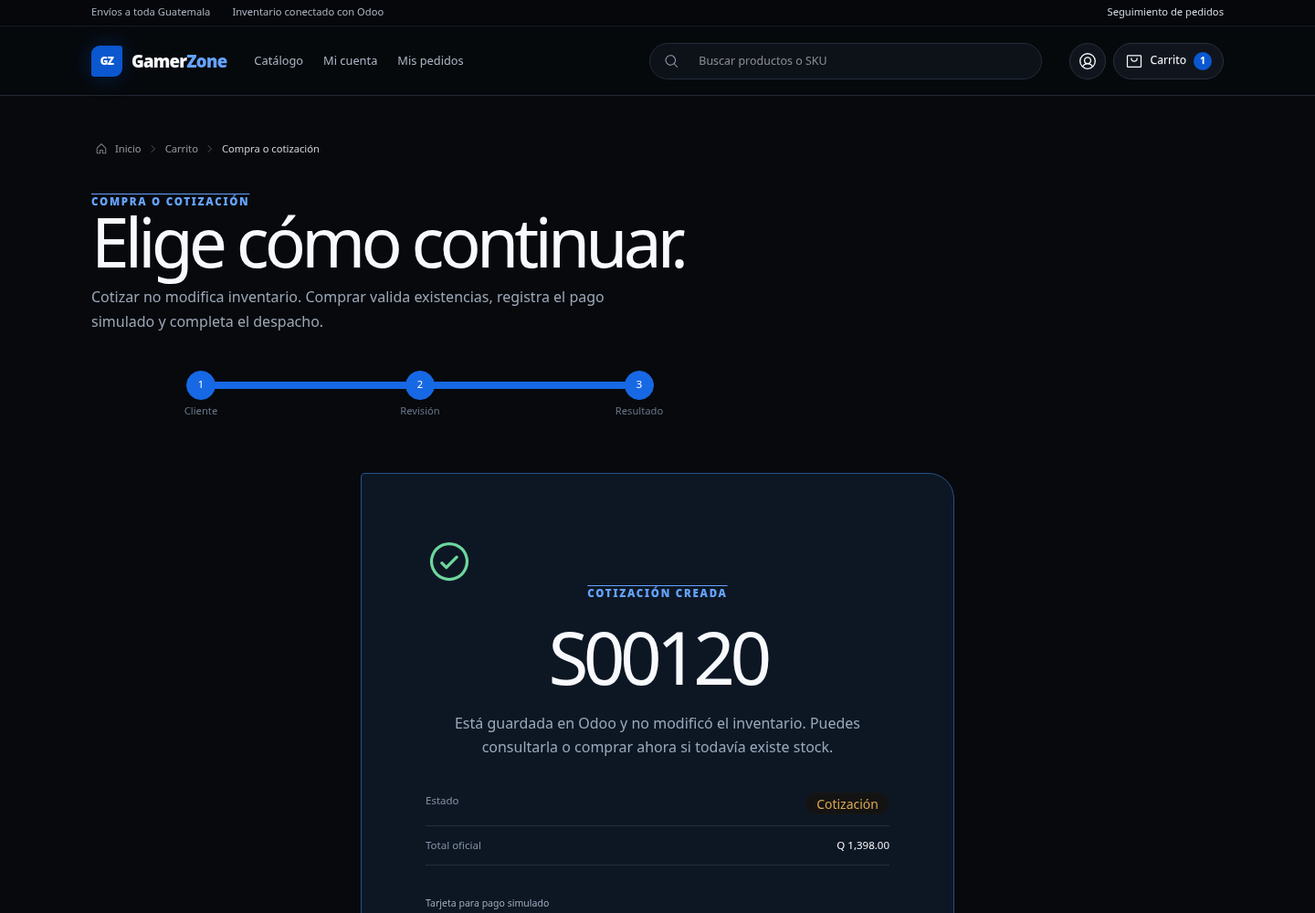
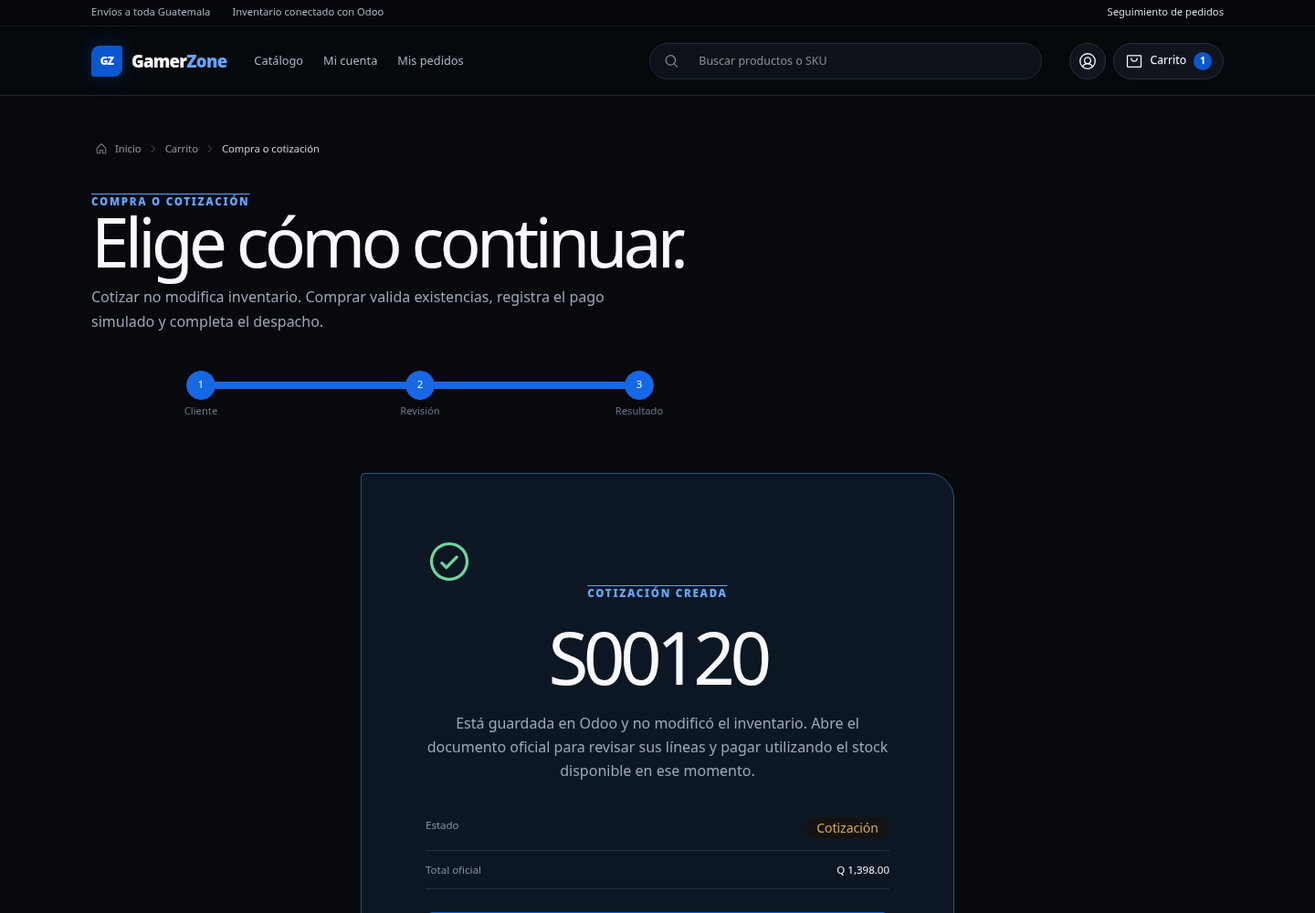
fix(backend): mejora del carrito compras

diff --git a/frontend/src/pages/PortalPage.tsx b/frontend/src/pages/PortalPage.tsx
@@ -1,6 +1,6 @@
 import { CreditCard, FileText, MagnifyingGlass, Package, Receipt } from "@phosphor-icons/react";
 import { useQuery, type UseQueryResult } from "@tanstack/react-query";
-import { FormEvent, useMemo, useState } from "react";
+import { FormEvent, useEffect, useMemo, useState } from "react";
 import { Link, useSearchParams } from "react-router-dom";
 import { EmptyState, ErrorState } from "../components/AsyncState";
 import { Breadcrumbs } from "../components/Breadcrumbs";
@@ -12,17 +12,25 @@ export function PortalPage() {
   const customer = useStore((state) => state.customer);
   const [params, setParams] = useSearchParams();
   const [draftEmail, setDraftEmail] = useState(params.get("email") || customer?.email || "");
+  const [draftCode, setDraftCode] = useState(params.get("codigo") || "");
   const email = params.get("email") || "";
+  const code = params.get("codigo") || "";
   const [tab, setTab] = useState<"orders" | "invoices" | "payments">("orders");
   const orders = useQuery({ queryKey: ["orders", email], queryFn: () => api.orders(email), enabled: Boolean(email) });
   const invoices = useQuery({ queryKey: ["invoices", email], queryFn: () => api.invoices(email), enabled: Boolean(email) });
   const payments = useQuery({ queryKey: ["payments", email], queryFn: () => api.payments(email), enabled: Boolean(email) });
-  const submit = (event: FormEvent) => { event.preventDefault(); if (draftEmail.trim()) setParams({ email: draftEmail.trim() }); };
+  const submit = (event: FormEvent) => {
+    event.preventDefault();
+    if (!draftEmail.trim()) return;
+    const next = new URLSearchParams({ email: draftEmail.trim() });
+    if (draftCode.trim()) next.set("codigo", draftCode.trim().toUpperCase());
+    setParams(next);
+  };
   return <section className="portal-page page-shell page-top">
     <Breadcrumbs items={[{ label: "Portal de cliente" }]} />
-    <header className="page-title"><p className="overline">Portal conectado con Odoo</p><h1>Tus compras, en un solo lugar.</h1><p>Consulta cotizaciones, órdenes y facturas utilizando el correo registrado.</p></header>
-    <form className="input portal-search" onSubmit={submit}><MagnifyingGlass size={20} /><input type="email" required value={draftEmail} onChange={(event) => setDraftEmail(event.target.value)} placeholder="correo@ejemplo.com" aria-label="Correo del cliente" /><button className="btn btn-primary button-primary">Consultar</button></form>
-    {!email ? <div className="state-panel portal-welcome"><Package size={36} /><h2>Ingresa tu correo para comenzar</h2><p>Mostraremos únicamente los documentos relacionados con ese cliente.</p></div> : <><div className="stats portal-stats" aria-label="Resumen de actividad"><div className="stat"><div className="stat-figure"><Package size={22} /></div><div className="stat-title">Documentos</div><div className="stat-value">{orders.isLoading ? "—" : orders.data?.length ?? 0}</div><div className="stat-desc">Cotizaciones y pedidos</div></div><div className="stat"><div className="stat-figure"><Receipt size={22} /></div><div className="stat-title">Facturas</div><div className="stat-value">{invoices.isLoading ? "—" : invoices.data?.length ?? 0}</div><div className="stat-desc">Emitidas en Odoo</div></div><div className="stat"><div className="stat-figure"><CreditCard size={22} /></div><div className="stat-title">Pagos</div><div className="stat-value">{payments.isLoading ? "—" : payments.data?.length ?? 0}</div><div className="stat-desc">Simulaciones aprobadas</div></div></div><div className="tabs tabs-box portal-tabs" role="tablist"><button role="tab" aria-selected={tab === "orders"} className={`tab ${tab === "orders" ? "tab-active active" : ""}`} onClick={() => setTab("orders")}><Package size={18} />Pedidos <span className="badge badge-sm">{orders.data?.length ?? 0}</span></button><button role="tab" aria-selected={tab === "invoices"} className={`tab ${tab === "invoices" ? "tab-active active" : ""}`} onClick={() => setTab("invoices")}><Receipt size={18} />Facturas <span className="badge badge-sm">{invoices.data?.length ?? 0}</span></button><button role="tab" aria-selected={tab === "payments"} className={`tab ${tab === "payments" ? "tab-active active" : ""}`} onClick={() => setTab("payments")}><CreditCard size={18} />Pagos <span className="badge badge-sm">{payments.data?.length ?? 0}</span></button></div>{tab === "orders" ? <PortalOrders query={orders} email={email} /> : tab === "invoices" ? <PortalInvoices query={invoices} /> : <PortalPayments query={payments} />}</>}
+    <header className="page-title"><p className="overline">Portal conectado con Odoo</p><h1>Tus compras, en un solo lugar.</h1><p>Consulta tus documentos con el correo registrado. Si tienes el código de una cotización, puedes ingresarlo para encontrarla directamente.</p></header>
+    <form className="portal-lookup" onSubmit={submit}><label className="input"><MagnifyingGlass size={19} /><input type="email" required value={draftEmail} onChange={(event) => setDraftEmail(event.target.value)} placeholder="correo@ejemplo.com" aria-label="Correo del cliente" /></label><label className="input"><FileText size={19} /><input value={draftCode} onChange={(event) => setDraftCode(event.target.value)} placeholder="Código, ej. S00017" aria-label="Código de cotización opcional" /></label><button className="btn btn-primary">Consultar</button></form>
+    {!email ? <div className="state-panel portal-welcome"><Package size={36} /><h2>Ingresa tu correo para comenzar</h2><p>También puedes agregar el código para recuperar una cotización específica.</p></div> : <><div className="stats portal-stats" aria-label="Resumen de actividad"><div className="stat"><div className="stat-figure"><Package size={22} /></div><div className="stat-title">Documentos</div><div className="stat-value">{orders.isLoading ? "—" : orders.data?.length ?? 0}</div><div className="stat-desc">Cotizaciones y pedidos</div></div><div className="stat"><div className="stat-figure"><Receipt size={22} /></div><div className="stat-title">Facturas</div><div className="stat-value">{invoices.isLoading ? "—" : invoices.data?.length ?? 0}</div><div className="stat-desc">Emitidas en Odoo</div></div><div className="stat"><div className="stat-figure"><CreditCard size={22} /></div><div className="stat-title">Pagos</div><div className="stat-value">{payments.isLoading ? "—" : payments.data?.length ?? 0}</div><div className="stat-desc">Simulaciones aprobadas</div></div></div><div className="tabs tabs-box portal-tabs" role="tablist"><button role="tab" aria-selected={tab === "orders"} className={`tab ${tab === "orders" ? "tab-active active" : ""}`} onClick={() => setTab("orders")}><Package size={18} />Pedidos <span className="badge badge-sm">{orders.data?.length ?? 0}</span></button><button role="tab" aria-selected={tab === "invoices"} className={`tab ${tab === "invoices" ? "tab-active active" : ""}`} onClick={() => setTab("invoices")}><Receipt size={18} />Facturas <span className="badge badge-sm">{invoices.data?.length ?? 0}</span></button><button role="tab" aria-selected={tab === "payments"} className={`tab ${tab === "payments" ? "tab-active active" : ""}`} onClick={() => setTab("payments")}><CreditCard size={18} />Pagos <span className="badge badge-sm">{payments.data?.length ?? 0}</span></button></div>{tab === "orders" ? <PortalOrders query={orders} email={email} initialTerm={code} /> : tab === "invoices" ? <PortalInvoices query={invoices} /> : <PortalPayments query={payments} />}</>}
   </section>;
 }
 
@@ -33,9 +41,10 @@ function PortalPayments({ query }: { query: UseQueryResult<SimulatedPayment[], E
   return <div className="document-list">{query.data.map((payment) => <article className="card card-border document-row" key={payment.id}><CreditCard size={22} /><div><strong>{payment.receipt}</strong><span>{payment.order_number} · {payment.card.brand} •••• {payment.card.last4}</span></div><span className="badge badge-success badge-soft document-status paid">Aprobado</span><strong>{money(payment.amount)}</strong></article>)}</div>;
 }
 
-function PortalOrders({ query, email }: { query: UseQueryResult<OrderSummary[], Error>; email: string }) {
+function PortalOrders({ query, email, initialTerm }: { query: UseQueryResult<OrderSummary[], Error>; email: string; initialTerm?: string }) {
   const [filter, setFilter] = useState<"all" | "quotes" | "orders">("all");
-  const [term, setTerm] = useState("");
+  const [term, setTerm] = useState(initialTerm ?? "");
+  useEffect(() => { setTerm(initialTerm ?? ""); }, [initialTerm]);
   const filtered = useMemo(() => (query.data ?? []).filter((order) => {
     const isQuote = order.state === "draft" || order.state === "sent";
     const matchesType = filter === "all" || (filter === "quotes" ? isQuote : !isQuote);
@@ -44,7 +53,7 @@ function PortalOrders({ query, email }: { query: UseQueryResult<OrderSummary[], 
   if (query.isLoading) return <div className="document-list"><div className="skeleton document-skeleton" /><div className="skeleton document-skeleton" /></div>;
   if (query.isError) return <ErrorState message={query.error.message} retry={() => query.refetch()} />;
   if (!query.data?.length) return <EmptyState title="No hay pedidos registrados" detail="Todavía no existen cotizaciones u órdenes asociadas a este correo." />;
-  return <><div className="portal-controls"><label className="input input-sm"><MagnifyingGlass size={17} /><input value={term} onChange={(event) => setTerm(event.target.value)} placeholder="Buscar documento" aria-label="Buscar documento" /></label><div className="join" aria-label="Filtrar pedidos"><button className={`btn btn-sm join-item ${filter === "all" ? "btn-active" : ""}`} onClick={() => setFilter("all")}>Todos</button><button className={`btn btn-sm join-item ${filter === "quotes" ? "btn-active" : ""}`} onClick={() => setFilter("quotes")}>Cotizaciones</button><button className={`btn btn-sm join-item ${filter === "orders" ? "btn-active" : ""}`} onClick={() => setFilter("orders")}>Confirmados</button></div></div>{filtered.length ? <div className="document-list">{filtered.map((order) => <Link className="card card-border document-row" to={`/${order.state === "draft" || order.state === "sent" ? "cotizaciones" : "pedidos"}/${order.id}?email=${encodeURIComponent(email)}`} key={order.id}><FileText size={22} /><div><strong>{order.order_number}</strong><span>{order.date}</span></div><span className={`badge badge-soft document-status ${order.state === "sale" || order.state === "done" ? "badge-success" : order.state === "cancel" ? "badge-error" : "badge-warning"} ${order.state}`}>{order.state_display}</span><strong>{money(order.total)}</strong></Link>)}</div> : <EmptyState title="No hay coincidencias" detail="Cambia el texto o el tipo de documento seleccionado." />}</>;
+  return <><div className="portal-controls"><label className="input input-sm"><MagnifyingGlass size={17} /><input value={term} onChange={(event) => setTerm(event.target.value)} placeholder="Buscar por código o estado" aria-label="Buscar documento" /></label><div className="join" aria-label="Filtrar pedidos"><button className={`btn btn-sm join-item ${filter === "all" ? "btn-active" : ""}`} onClick={() => setFilter("all")}>Todos</button><button className={`btn btn-sm join-item ${filter === "quotes" ? "btn-active" : ""}`} onClick={() => setFilter("quotes")}>Cotizaciones</button><button className={`btn btn-sm join-item ${filter === "orders" ? "btn-active" : ""}`} onClick={() => setFilter("orders")}>Confirmados</button></div></div>{filtered.length ? <div className="document-list">{filtered.map((order) => <Link className="card card-border document-row" to={`/${order.state === "draft" || order.state === "sent" ? "cotizaciones" : "pedidos"}/${order.id}?email=${encodeURIComponent(email)}`} key={order.id}><FileText size={22} /><div><strong>{order.order_number}</strong><span>{order.date}</span></div><span className={`badge badge-soft document-status ${order.state === "sale" || order.state === "done" ? "badge-success" : order.state === "cancel" ? "badge-error" : "badge-warning"} ${order.state}`}>{order.state_display}</span><strong>{money(order.total)}</strong></Link>)}</div> : <EmptyState title="No encontramos ese código" detail="Comprueba que el código y el correo correspondan a la misma cotización." />}</>;
 }
 
 function PortalInvoices({ query }: { query: UseQueryResult<InvoiceSummary[], Error> }) {

diff --git a/frontend/src/pages/QuotePage.tsx b/frontend/src/pages/QuotePage.tsx
@@ -4,17 +4,18 @@ import { useState } from "react";
 import { Link, useNavigate } from "react-router-dom";
 import { CustomerForm } from "../components/CustomerForm";
 import { Breadcrumbs } from "../components/Breadcrumbs";
+import { PaymentSelector } from "../components/PaymentSelector";
 import { PurchaseConfirmDialog } from "../components/PurchaseConfirmDialog";
 import { ApiError, api, money } from "../lib/api";
 import { useStore } from "../store/useStore";
-import type { Customer, PaymentMethod } from "../types";
+import type { Customer } from "../types";
 
 export function QuotePage() {
   const navigate = useNavigate();
   const { cart, customer, lastQuote, setCustomer, setLastQuote, clearCart, notify } = useStore();
   const [step, setStep] = useState(lastQuote ? 3 : 1);
   const [selectedCard, setSelectedCard] = useState("");
-  const [purchaseMode, setPurchaseMode] = useState<"checkout" | "convert" | null>(null);
+  const [purchaseOpen, setPurchaseOpen] = useState(false);
   const paymentEmail = customer?.email || lastQuote?.customer_email || "";
   const cards = useQuery({ queryKey: ["payment-methods", paymentEmail], queryFn: () => api.paymentMethods(paymentEmail), enabled: Boolean(paymentEmail) });
   const cardId = selectedCard || cards.data?.[0]?.id || "";
@@ -22,7 +23,6 @@ export function QuotePage() {
   const items = cart.map((line) => ({ product_id: line.product.id, quantity: line.quantity }));
   const quoteMutation = useMutation({ mutationFn: () => api.createQuote(customer!, items) });
   const buyMutation = useMutation({ mutationFn: () => api.checkout(customer!, items, cardId) });
-  const convertMutation = useMutation({ mutationFn: () => api.convertQuote(lastQuote!.quote_id, lastQuote!.customer_email, cardId) });
   const total = cart.reduce((sum, line) => sum + line.product.price * line.quantity, 0);
 
   const saveCustomer = async (values: Customer) => { setCustomer(values); setStep(2); };
@@ -36,17 +36,8 @@ export function QuotePage() {
       const response = await buyMutation.mutateAsync();
       clearCart(); setLastQuote(null);
       notify(response.data.invoice_warning || `Pago ${response.data.payment.receipt} aprobado.`, response.data.invoice_warning ? "error" : "success");
-      setPurchaseMode(null); navigate(`/pedidos/${response.data.sale_order_id}?email=${encodeURIComponent(customer!.email)}`);
+      setPurchaseOpen(false); navigate(`/pedidos/${response.data.sale_order_id}?email=${encodeURIComponent(customer!.email)}`);
     } catch (error) { notify(error instanceof ApiError ? error.message : "No fue posible completar la compra.", "error"); }
-  };
-  const convert = async () => {
-    if (!cardId) return notify("Adjunta una Tarjeta antes de comprar.", "error");
-    try {
-      const response = await convertMutation.mutateAsync();
-      clearCart(); setLastQuote(null);
-      notify(response.data.invoice_warning || `Pago ${response.data.payment.receipt} aprobado.`, response.data.invoice_warning ? "error" : "success");
-      setPurchaseMode(null); navigate(`/pedidos/${response.data.sale_order_id}?email=${encodeURIComponent(response.data.customer_email)}`);
-    } catch (error) { notify(error instanceof ApiError ? error.message : "No fue posible convertir la cotización.", "error"); }
   };
 
   if (!cart.length && !lastQuote) return <section className="page-shell page-top"><div className="state-panel"><Package size={38} /><h1>No hay productos en el carrito</h1><p>Agrega productos antes de cotizar o comprar.</p><Link className="btn btn-primary button-primary" to="/catalogo">Ir al catálogo</Link></div></section>;
@@ -55,17 +46,12 @@ export function QuotePage() {
     <header className="page-title"><p className="overline">Compra o cotización</p><h1>Elige cómo continuar.</h1><p>Cotizar no modifica inventario. Comprar valida existencias, registra el pago simulado y completa el despacho.</p></header>
     <ol className="steps steps-horizontal stepper"><li className={`step ${step >= 1 ? "step-primary" : ""}`}>Cliente</li><li className={`step ${step >= 2 ? "step-primary" : ""}`}>Revisión</li><li className={`step ${step >= 3 ? "step-primary" : ""}`}>Resultado</li></ol>
     {step === 1 && <div className="quote-stage"><div><h2>¿A nombre de quién?</h2><p>Los datos quedarán asociados al contacto en Odoo.</p></div><div className="form-panel"><CustomerForm defaultValues={customer} buttonLabel="Revisar productos" onSubmit={saveCustomer} /></div></div>}
-    {step === 2 && <div className="quote-review"><ProductLines cart={cart} /><aside className="card card-border"><FileText size={28} /><h2>Resumen</h2><dl><div><dt>Cliente</dt><dd>{customer?.name}</dd></div><div><dt>Correo</dt><dd>{customer?.email}</dd></div><div><dt>Total estimado</dt><dd>{money(total)}</dd></div></dl><p>Odoo volverá a verificar precio y stock. La cotización no reserva unidades.</p><button className="btn btn-secondary quote-action" onClick={createQuote} disabled={quoteMutation.isPending || buyMutation.isPending}>{quoteMutation.isPending ? <><span className="loading loading-spinner loading-sm" />Creando cotización</> : <><FileText size={17} />Solo cotizar</>}</button><PaymentSelector cards={cards.data ?? []} value={cardId} onChange={setSelectedCard} /><button className="btn btn-primary" onClick={() => setPurchaseMode("checkout")} disabled={!cardId || buyMutation.isPending || quoteMutation.isPending}><ShoppingBag size={17} />Comprar y pagar</button>{!cards.isLoading && !cards.data?.length && <Link className="btn btn-link card-required" to="/cuenta"><CreditCard size={16} />Adjuntar tarjeta en Mi cuenta</Link>}<button className="btn btn-ghost button-text" onClick={() => setStep(1)}><ArrowLeft size={15} />Editar cliente</button></aside></div>}
-    {step === 3 && lastQuote && <div className="card card-border quote-success"><CheckCircle size={52} /><p className="overline">Cotización creada</p><h2>{lastQuote.quote_number}</h2><p>Está guardada en Odoo y no modificó el inventario. Puedes consultarla o comprar ahora si todavía existe stock.</p><dl><div><dt>Estado</dt><dd><span className="badge badge-warning badge-soft">Cotización</span></dd></div><div><dt>Total oficial</dt><dd>{money(lastQuote.total)}</dd></div></dl><PaymentSelector cards={cards.data ?? []} value={cardId} onChange={setSelectedCard} /><button className="btn btn-primary" onClick={() => setPurchaseMode("convert")} disabled={!cardId || convertMutation.isPending}>Pagar y convertir en orden</button>{!cards.isLoading && !cards.data?.length && <Link className="btn btn-secondary" to="/cuenta">Adjuntar tarjeta</Link>}<Link className="btn btn-secondary" to={`/cotizaciones/${lastQuote.quote_id}?email=${encodeURIComponent(lastQuote.customer_email)}`}>Ver detalle <ArrowRight size={16} /></Link></div>}
-    <PurchaseConfirmDialog open={purchaseMode !== null} items={cart} card={selectedPaymentCard} total={purchaseMode === "convert" && lastQuote ? lastQuote.total : total} busy={buyMutation.isPending || convertMutation.isPending} onClose={() => setPurchaseMode(null)} onConfirm={() => purchaseMode === "convert" ? void convert() : void buy()} />
+    {step === 2 && <div className="quote-review"><ProductLines cart={cart} /><aside className="card card-border"><FileText size={28} /><h2>Resumen</h2><dl><div><dt>Cliente</dt><dd>{customer?.name}</dd></div><div><dt>Correo</dt><dd>{customer?.email}</dd></div><div><dt>Total estimado</dt><dd>{money(total)}</dd></div></dl><p>Odoo volverá a verificar precio y stock. La cotización no reserva unidades.</p><button className="btn btn-secondary quote-action" onClick={createQuote} disabled={quoteMutation.isPending || buyMutation.isPending}>{quoteMutation.isPending ? <><span className="loading loading-spinner loading-sm" />Creando cotización</> : <><FileText size={17} />Solo cotizar</>}</button><PaymentSelector cards={cards.data ?? []} value={cardId} onChange={setSelectedCard} /><button className="btn btn-primary" onClick={() => setPurchaseOpen(true)} disabled={!cardId || buyMutation.isPending || quoteMutation.isPending}><ShoppingBag size={17} />Comprar y pagar</button>{!cards.isLoading && !cards.data?.length && <Link className="btn btn-link card-required" to="/cuenta"><CreditCard size={16} />Adjuntar tarjeta en Mi cuenta</Link>}<button className="btn btn-ghost button-text" onClick={() => setStep(1)}><ArrowLeft size={15} />Editar cliente</button></aside></div>}
+    {step === 3 && lastQuote && <div className="card card-border quote-success"><CheckCircle size={52} /><p className="overline">Cotización creada</p><h2>{lastQuote.quote_number}</h2><p>Está guardada en Odoo y no modificó el inventario. Abre el documento oficial para revisar sus líneas y pagar utilizando el stock disponible en ese momento.</p><dl><div><dt>Estado</dt><dd><span className="badge badge-warning badge-soft">Cotización</span></dd></div><div><dt>Total oficial</dt><dd>{money(lastQuote.total)}</dd></div></dl><Link className="btn btn-primary" to={`/cotizaciones/${lastQuote.quote_id}?email=${encodeURIComponent(lastQuote.customer_email)}`}>Ver y pagar cotización <ArrowRight size={16} /></Link><Link className="btn btn-secondary" to={`/portal?email=${encodeURIComponent(lastQuote.customer_email)}&codigo=${encodeURIComponent(lastQuote.quote_number)}`}>Ver en Mis pedidos</Link></div>}
+    <PurchaseConfirmDialog open={purchaseOpen} items={cart.map((line) => ({ id: line.product.id, name: line.product.name, image_url: line.product.image_url, quantity: line.quantity, price: line.product.price }))} card={selectedPaymentCard} total={total} busy={buyMutation.isPending} onClose={() => setPurchaseOpen(false)} onConfirm={() => void buy()} />
   </section>;
 }
 
 function ProductLines({ cart }: { cart: ReturnType<typeof useStore.getState>["cart"] }) {
   return <div className="review-lines"><h2>Productos seleccionados</h2>{cart.map((line) => <article key={line.product.id}><img src={line.product.image_url} alt={line.product.name} /><div><strong>{line.product.name}</strong><span>{line.quantity} × {money(line.product.price)} · stock disponible: {line.product.stock}</span></div><strong>{money(line.quantity * line.product.price)}</strong></article>)}</div>;
-}
-
-function PaymentSelector({ cards, value, onChange }: { cards: PaymentMethod[]; value: string; onChange: (value: string) => void }) {
-  if (!cards.length) return null;
-  return <label className="payment-selector"><span>Tarjeta para pago simulado</span><select className="select select-sm" value={value} onChange={(event) => onChange(event.target.value)}>{cards.map((card) => <option value={card.id} key={card.id}>{card.brand} •••• {card.last4} — {String(card.expiry_month).padStart(2, "0")}/{card.expiry_year}</option>)}</select></label>;
 }

diff --git a/frontend/src/pages/OrderDetailPage.tsx b/frontend/src/pages/OrderDetailPage.tsx
@@ -1,22 +1,51 @@
-import { CheckCircle, FileText, Package, ShoppingBag, Truck } from "@phosphor-icons/react";
-import { useQuery } from "@tanstack/react-query";
-import { Link, useParams, useSearchParams } from "react-router-dom";
+import { CheckCircle, CreditCard, FileText, Package, ShoppingBag, Truck } from "@phosphor-icons/react";
+import { useMutation, useQuery, useQueryClient } from "@tanstack/react-query";
+import { useState } from "react";
+import { Link, useNavigate, useParams, useSearchParams } from "react-router-dom";
 import { ErrorState } from "../components/AsyncState";
 import { Breadcrumbs } from "../components/Breadcrumbs";
-import { api, money } from "../lib/api";
+import { PaymentSelector } from "../components/PaymentSelector";
+import { PurchaseConfirmDialog } from "../components/PurchaseConfirmDialog";
+import { ApiError, api, money } from "../lib/api";
 import { useStore } from "../store/useStore";
 
 export function OrderDetailPage() {
+  const navigate = useNavigate();
+  const queryClient = useQueryClient();
   const { id } = useParams();
   const [params] = useSearchParams();
-  const savedEmail = useStore((state) => state.customer?.email);
+  const { customer, setLastQuote, notify } = useStore();
+  const savedEmail = customer?.email;
   const email = params.get("email") || savedEmail || "";
   const orderId = Number(id);
+  const [selectedCard, setSelectedCard] = useState("");
+  const [purchaseOpen, setPurchaseOpen] = useState(false);
   const order = useQuery({
     queryKey: ["order", orderId, email],
     queryFn: () => api.orderDetail(orderId, email),
     enabled: Number.isInteger(orderId) && orderId > 0 && Boolean(email)
   });
+  const isQuote = order.data?.state === "draft" || order.data?.state === "sent";
+  const cards = useQuery({ queryKey: ["payment-methods", email], queryFn: () => api.paymentMethods(email), enabled: Boolean(email) && isQuote });
+  const cardId = selectedCard || cards.data?.[0]?.id || "";
+  const selectedPaymentCard = cards.data?.find((card) => card.id === cardId);
+  const conversion = useMutation({ mutationFn: () => api.convertQuote(orderId, email, cardId) });
+  const convert = async () => {
+    if (!cardId) return notify("Adjunta una Tarjeta antes de comprar.", "error");
+    try {
+      const response = await conversion.mutateAsync();
+      setPurchaseOpen(false);
+      setLastQuote(null);
+      await Promise.all([
+        queryClient.invalidateQueries({ queryKey: ["orders", email] }),
+        queryClient.invalidateQueries({ queryKey: ["invoices", email] }),
+        queryClient.invalidateQueries({ queryKey: ["payments", email] }),
+        queryClient.invalidateQueries({ queryKey: ["order", orderId, email] })
+      ]);
+      notify(response.data.invoice_warning || `Pago ${response.data.payment.receipt} aprobado.`, response.data.invoice_warning ? "error" : "success");
+      navigate(`/pedidos/${response.data.sale_order_id}?email=${encodeURIComponent(response.data.customer_email)}`, { replace: true });
+    } catch (error) { notify(error instanceof ApiError ? error.message : "No fue posible convertir la cotización.", "error"); }
+  };
 
   if (!email) return <section className="page-shell page-top"><ErrorState message="Ingresa desde el portal con tu correo para consultar este documento." /><Link className="btn btn-primary button-primary state-link" to="/portal">Ir al portal</Link></section>;
   if (!Number.isInteger(orderId) || orderId < 1) return <section className="page-shell page-top"><ErrorState message="El número de documento no es válido." /></section>;
@@ -37,6 +66,8 @@ export function OrderDetailPage() {
         {document.lines.map((line) => <article key={line.id}><span><Package size={19} /><strong>{line.name}</strong></span><span>{line.quantity}</span><span>{money(line.price_unit)}</span><strong>{money(line.subtotal)}</strong></article>)}
       </div>
       <dl className="document-totals"><div><dt>Subtotal</dt><dd>{money(document.subtotal)}</dd></div><div><dt>Impuestos</dt><dd>{money(document.tax)}</dd></div><div><dt>Total</dt><dd>{money(document.total)}</dd></div></dl>
+      {isQuote && <section className="quote-payment-panel" aria-labelledby="quote-payment-title"><div><p className="overline">Compra desde la cotización</p><h2 id="quote-payment-title">Paga este documento.</h2><p>La confirmación utilizará exactamente las líneas oficiales mostradas arriba. Odoo validará nuevamente las existencias antes de convertirlo en pedido.</p></div><div className="quote-payment-actions">{cards.isLoading ? <div className="skeleton quote-payment-skeleton" /> : <PaymentSelector cards={cards.data ?? []} value={cardId} onChange={setSelectedCard} label="Método para pagar esta cotización" />}{cards.isSuccess && !cards.data.length ? <Link className="btn btn-secondary" to="/cuenta"><CreditCard size={17} />Adjuntar tarjeta en Mi cuenta</Link> : <button className="btn btn-primary" onClick={() => setPurchaseOpen(true)} disabled={!cardId || conversion.isPending}><CreditCard size={17} />Pagar {document.order_number}</button>}<small>El pago es una simulación educativa y no realiza cargos bancarios reales.</small></div></section>}
     </div>
+    <PurchaseConfirmDialog open={purchaseOpen} items={document.lines.map((line) => ({ id: line.id, name: line.name, image_url: line.product_id ? `/api/products/${line.product_id}/image` : undefined, quantity: line.quantity, price: line.price_unit }))} card={selectedPaymentCard} total={document.total} busy={conversion.isPending} onClose={() => setPurchaseOpen(false)} onConfirm={() => void convert()} />
   </section>;
 }

diff --git a/frontend/src/styles.css b/frontend/src/styles.css
@@ -339,6 +339,10 @@ button:focus-visible, a:focus-visible, input:focus-visible, select:focus-visible
 
 .portal-search { width: min(720px,100%); margin-bottom: 32px; padding-right: 5px; }
 .portal-search .button-primary { flex: none; min-height: 38px; }
+.portal-lookup { width: min(920px, 100%); margin-bottom: 32px; display: grid; grid-template-columns: minmax(260px, 1fr) minmax(210px, .65fr) auto; gap: 10px; }
+.portal-lookup .input { width: 100%; height: 48px; background: var(--color-base-200); border-color: var(--color-base-300); }
+.portal-lookup .input:focus-within { border-color: var(--color-primary); box-shadow: 0 0 0 3px color-mix(in srgb, var(--color-primary) 16%, transparent); }
+.portal-lookup .btn { min-height: 48px; padding-inline: 24px; }
 .portal-stats { width: 100%; margin: 4px 0 24px; display: grid; grid-auto-flow: row; grid-template-columns: repeat(3, minmax(0, 1fr)); background: var(--color-base-200); border: 1px solid var(--color-base-300); box-shadow: 0 24px 70px rgba(3, 10, 22, .18); }
 .portal-stats .stat { min-width: 0; padding: 20px 22px; }
 .portal-stats .stat + .stat { border-left: 1px solid var(--color-base-300); }
@@ -384,6 +388,14 @@ a.document-row:hover { border-color: #416896; background: #101925; }
 .document-totals div { padding: 11px 0; display: flex; justify-content: space-between; border-bottom: 1px solid var(--line); color: #a6b0be; font-size: .76rem; }
 .document-totals dd { margin: 0; color: #fff; }
 .document-totals div:last-child { font-size: 1rem; font-weight: 800; }
+.quote-payment-panel { margin-top: 42px; padding: clamp(24px, 4vw, 38px); display: grid; grid-template-columns: minmax(0, 1fr) minmax(280px, .72fr); gap: 42px; align-items: center; background: color-mix(in srgb, var(--color-primary) 8%, var(--color-base-200)); border: 1px solid color-mix(in srgb, var(--color-primary) 34%, var(--color-base-300)); border-radius: 4px 20px 4px 20px; }
+.quote-payment-panel h2 { margin: 7px 0 12px; font-size: clamp(1.6rem, 3vw, 2.5rem); letter-spacing: -.045em; }
+.quote-payment-panel > div:first-child > p:last-child { max-width: 580px; margin: 0; color: color-mix(in srgb, var(--color-base-content) 58%, transparent); font-size: .75rem; line-height: 1.65; }
+.quote-payment-actions { display: grid; gap: 11px; }
+.quote-payment-actions .payment-selector { margin: 0; }
+.quote-payment-actions .btn { width: 100%; }
+.quote-payment-actions small { color: color-mix(in srgb, var(--color-base-content) 44%, transparent); font-size: .62rem; line-height: 1.45; text-align: center; }
+.quote-payment-skeleton { height: 44px; border-radius: var(--radius-field); }
 .order-progress { margin: 34px 0 30px; padding: 26px; display: grid; grid-template-columns: minmax(170px,.45fr) 1fr; gap: 30px; background: color-mix(in srgb, var(--color-base-200) 78%, transparent); border: 1px solid var(--color-base-300); border-radius: var(--radius-box); }
 .order-progress h2 { margin: 6px 0 0; font-size: 1.15rem; }
 .order-progress .timeline { margin: 0; }
@@ -404,6 +416,7 @@ a.document-row:hover { border-color: #416896; background: #101925; }
 .purchase-modal-lines article + article { border-top: 1px solid var(--color-base-300); }
 .purchase-modal-thumb { width: 58px; height: 52px; display: grid; place-items: center; background: #f0f3f7; border-radius: 5px 12px 5px 12px; }
 .purchase-modal-thumb img { max-width: 86%; max-height: 46px; object-fit: contain; }
+.purchase-modal-thumb > svg { color: #526074; }
 .purchase-modal-lines strong { font-size: .75rem; }
 .purchase-modal-lines article > strong { text-align: right; }
 .purchase-modal-lines span { display: block; margin-top: 4px; color: color-mix(in srgb, var(--color-base-content) 48%, transparent); font-size: .63rem; }
@@ -508,6 +521,8 @@ a.document-row:hover { border-color: #416896; background: #101925; }
   .product-action button { width: 100%; justify-content: center; }
   .trust-section { grid-template-columns: 1fr; gap: 40px; }
   .catalog-toolbar { grid-template-columns: 1fr; }
+  .portal-lookup { grid-template-columns: 1fr 1fr; }
+  .portal-lookup .btn { grid-column: 1 / -1; }
   .product-detail { grid-template-columns: 1fr; }
   .detail-media { min-height: 360px; }
   .detail-media img { max-height: 320px; }
@@ -533,6 +548,7 @@ a.document-row:hover { border-color: #416896; background: #101925; }
   .portal-controls > .input { width: 100%; }
   .portal-controls .join { overflow-x: auto; }
   .order-progress { grid-template-columns: 1fr; gap: 18px; padding: 20px; }
+  .quote-payment-panel { grid-template-columns: 1fr; gap: 24px; }
   .footer-main { padding: 45px 0; grid-template-columns: 1fr; gap: 30px; }
   .footer-legal { padding: 20px 0; flex-wrap: wrap; }
   .footer-legal span:first-child { width: 100%; }
@@ -565,6 +581,8 @@ a.document-row:hover { border-color: #416896; background: #101925; }
   .portal-search { height: auto; padding: 10px; flex-wrap: wrap; }
   .portal-search input { min-width: calc(100% - 40px); height: 38px; }
   .portal-search .button-primary { width: 100%; }
+  .portal-lookup { grid-template-columns: 1fr; }
+  .portal-lookup .btn { grid-column: 1; }
   .portal-stats .stat { padding: 14px 12px; }
   .portal-stats .stat-figure, .portal-stats .stat-desc { display: none; }
   .portal-tabs { flex-wrap: nowrap; overflow-x: auto; }

diff --git a/frontend/src/components/PurchaseConfirmDialog.tsx b/frontend/src/components/PurchaseConfirmDialog.tsx
@@ -1,11 +1,11 @@
 import { CreditCard, Package, ShieldCheck, X } from "@phosphor-icons/react";
 import { useEffect, useRef } from "react";
 import { money } from "../lib/api";
-import type { CartLine, PaymentMethod } from "../types";
+import type { PaymentMethod, PurchaseLine } from "../types";
 
 interface Props {
   open: boolean;
-  items: CartLine[];
+  items: PurchaseLine[];
   card?: PaymentMethod;
   total: number;
   busy: boolean;
@@ -25,7 +25,7 @@ export function PurchaseConfirmDialog({ open, items, card, total, busy, onClose,
   return <dialog ref={ref} className="modal purchase-modal" onCancel={(event) => { if (busy) event.preventDefault(); else onClose(); }} onClose={() => { if (open && !busy) onClose(); }}>
     <div className="modal-box">
       <header><div><span className="modal-kicker">Confirmación final</span><h2>Revisa antes de pagar</h2></div><button className="btn btn-ghost btn-circle btn-sm" type="button" onClick={onClose} disabled={busy} aria-label="Cerrar confirmación"><X size={19} /></button></header>
-      <div className="purchase-modal-lines">{items.map(({ product, quantity }) => <article key={product.id}><div className="purchase-modal-thumb"><img src={product.image_url} alt={product.name} /></div><div><strong>{product.name}</strong><span>{quantity} × {money(product.price)}</span></div><strong>{money(product.price * quantity)}</strong></article>)}</div>
+      <div className="purchase-modal-lines">{items.map((item) => <article key={item.id}><div className="purchase-modal-thumb">{item.image_url ? <img src={item.image_url} alt={item.name} /> : <Package size={23} />}</div><div><strong>{item.name}</strong><span>{item.quantity} × {money(item.price)}</span></div><strong>{money(item.price * item.quantity)}</strong></article>)}</div>
       <dl className="purchase-modal-summary"><div><dt><Package size={17} />Unidades</dt><dd>{items.reduce((sum, item) => sum + item.quantity, 0)}</dd></div><div><dt><CreditCard size={17} />Método</dt><dd>{card ? `${card.brand} •••• ${card.last4}` : "No seleccionado"}</dd></div><div className="purchase-modal-total"><dt>Total</dt><dd>{money(total)}</dd></div></dl>
       <div className="alert alert-warning alert-soft purchase-warning"><ShieldCheck size={20} /><span>Al confirmar, Odoo validará nuevamente las existencias y descontará inventario únicamente si la compra se completa.</span></div>
       <div className="modal-action"><button className="btn btn-ghost" type="button" onClick={onClose} disabled={busy}>Volver</button><button className="btn btn-primary" type="button" onClick={onConfirm} disabled={busy || !card}>{busy ? <><span className="loading loading-spinner loading-sm" />Procesando compra</> : "Confirmar y pagar"}</button></div>

diff --git a/frontend/src/store/useStore.ts b/frontend/src/store/useStore.ts
@@ -30,17 +30,17 @@ export const useStore = create<StoreState>()(persist((set) => ({
     const cart = existing
       ? state.cart.map((line) => line.product.id === product.id ? { ...line, product, quantity: Math.min(available, line.quantity + quantity) } : line)
       : [...state.cart, { product, quantity: Math.min(available, quantity) }];
-    return { cart, notice: { message: `${product.name} se agregó al carrito.`, tone: "success" } };
+    return { cart, lastQuote: null, notice: { message: `${product.name} se agregó al carrito.`, tone: "success" } };
   }),
   setQuantity: (productId, quantity) => set((state) => {
     const line = state.cart.find((item) => item.product.id === productId);
     const available = Math.max(0, Math.floor(line?.product.stock ?? 0));
-    return { cart: quantity < 1 || !available
+    return { lastQuote: null, cart: quantity < 1 || !available
       ? state.cart.filter((item) => item.product.id !== productId)
       : state.cart.map((item) => item.product.id === productId ? { ...item, quantity: Math.min(available, quantity) } : item) };
   }),
-  removeProduct: (productId) => set((state) => ({ cart: state.cart.filter((line) => line.product.id !== productId) })),
-  clearCart: () => set({ cart: [] }),
+  removeProduct: (productId) => set((state) => ({ cart: state.cart.filter((line) => line.product.id !== productId), lastQuote: null })),
+  clearCart: () => set({ cart: [], lastQuote: null }),
   setCustomer: (customer) => set({ customer }),
   setLastQuote: (lastQuote) => set({ lastQuote }),
   setCartOpen: (cartOpen) => set({ cartOpen }),

diff --git a/frontend/src/components/PaymentSelector.tsx b/frontend/src/components/PaymentSelector.tsx
@@ -1,0 +1,13 @@
+import type { PaymentMethod } from "../types";
+
+interface Props {
+  cards: PaymentMethod[];
+  value: string;
+  onChange: (value: string) => void;
+  label?: string;
+}
+
+export function PaymentSelector({ cards, value, onChange, label = "Tarjeta para pago simulado" }: Props) {
+  if (!cards.length) return null;
+  return <label className="payment-selector"><span>{label}</span><select className="select select-sm" value={value} onChange={(event) => onChange(event.target.value)}>{cards.map((card) => <option value={card.id} key={card.id}>{card.brand} •••• {card.last4} — {String(card.expiry_month).padStart(2, "0")}/{card.expiry_year}</option>)}</select></label>;
+}

diff --git a/frontend/src/types.ts b/frontend/src/types.ts
@@ -46,6 +46,14 @@ export interface CartLine {
   quantity: number;
 }
 
+export interface PurchaseLine {
+  id: number;
+  name: string;
+  image_url?: string;
+  quantity: number;
+  price: number;
+}
+
 export interface QuoteResult {
   quote_id: number;
   quote_number: string;

diff --git a/docs/manual_usuario.md b/docs/manual_usuario.md
@@ -194,22 +194,23 @@ Después de guardar, se muestra el número asignado por Odoo, su estado y total 
 
 En esta pantalla puede:
 
-- seleccionar **Ver detalle** para consultar las líneas guardadas;
+- seleccionar **Ver y pagar cotización** para consultar las líneas oficiales;
 - dejar la cotización en borrador y consultarla después en **Mis pedidos**;
-- seleccionar una tarjeta y **Pagar y convertir en orden** para confirmar la compra.
+- seleccionar **Ver en Mis pedidos** para recuperarla posteriormente con su código.
 
 ## 11. Comprar o convertir la cotización en orden
 
-1. Seleccione una Tarjeta y presione **Comprar y pagar** o **Pagar y convertir en orden**.
-2. Revise productos, unidades, total y tarjeta en la confirmación final.
-3. Presione **Confirmar y pagar**. Puede utilizar **Volver** si necesita corregir algo.
-4. El backend verifica que el correo corresponda al cliente propietario de la cotización.
-5. El backend vuelve a comprobar la existencia. Si no alcanza, rechaza la compra sin confirmarla.
-6. Odoo confirma la `sale.order`, reserva el inventario y valida el despacho para descontar la existencia física.
-7. La oportunidad de CRM se actualiza a 100 %.
-8. El servicio registra un pago educativo aprobado y genera un recibo `SIM-...`.
-9. El sistema intenta crear y publicar la factura.
-10. El sitio abre el detalle de la orden confirmada y presenta su trazabilidad.
+1. Abra el detalle oficial mediante **Ver y pagar cotización** o desde **Mis pedidos**.
+2. Seleccione la tarjeta y presione **Pagar** seguido del código del documento.
+3. Revise las líneas oficiales, unidades, total y tarjeta en la confirmación final.
+4. Presione **Confirmar y pagar**. Puede utilizar **Volver** si necesita corregir algo.
+5. El backend verifica que el correo corresponda al cliente propietario de la cotización.
+6. El backend vuelve a comprobar la existencia. Si no alcanza, rechaza la compra sin confirmarla.
+7. Odoo confirma la `sale.order`, reserva el inventario y valida el despacho para descontar la existencia física.
+8. La oportunidad de CRM se actualiza a 100 %.
+9. El servicio registra un pago educativo aprobado y genera un recibo `SIM-...`.
+10. El sistema intenta crear y publicar la factura.
+11. El sitio abre el detalle de la orden confirmada y presenta su trazabilidad.
 
 ![Confirmación final antes de afectar el inventario](capturas/05_confirmar_compra.png)
 
@@ -223,10 +224,11 @@ Si la orden se confirma pero la configuración contable impide crear la factura,
 
 1. Seleccione **Mis pedidos**.
 2. Ingrese el mismo correo utilizado durante el registro o la cotización.
-3. Presione **Consultar**.
-4. Abra la pestaña **Pedidos**.
+3. Si conoce el código, escríbalo en **Código**, por ejemplo `S00017`.
+4. Presione **Consultar**.
+5. Abra la cotización encontrada y utilice el panel **Paga este documento**.
 
-El resumen superior muestra cuántos documentos, facturas y pagos existen. La lista diferencia cotizaciones, cotizaciones enviadas, órdenes confirmadas, órdenes completadas y documentos cancelados. Puede buscar por número o estado y filtrar entre cotizaciones y pedidos confirmados. Seleccione una fila para abrir su detalle.
+El correo protege la consulta: el código solo mostrará el documento si pertenece a ese cliente. El resumen superior muestra cuántos documentos, facturas y pagos existen. La lista diferencia cotizaciones, cotizaciones enviadas, órdenes confirmadas, órdenes completadas y documentos cancelados. También puede buscar por número o estado y filtrar entre cotizaciones y pedidos confirmados.
 
 ![Portal con cotizaciones y órdenes](capturas/08_portal_pedidos.png)
 
